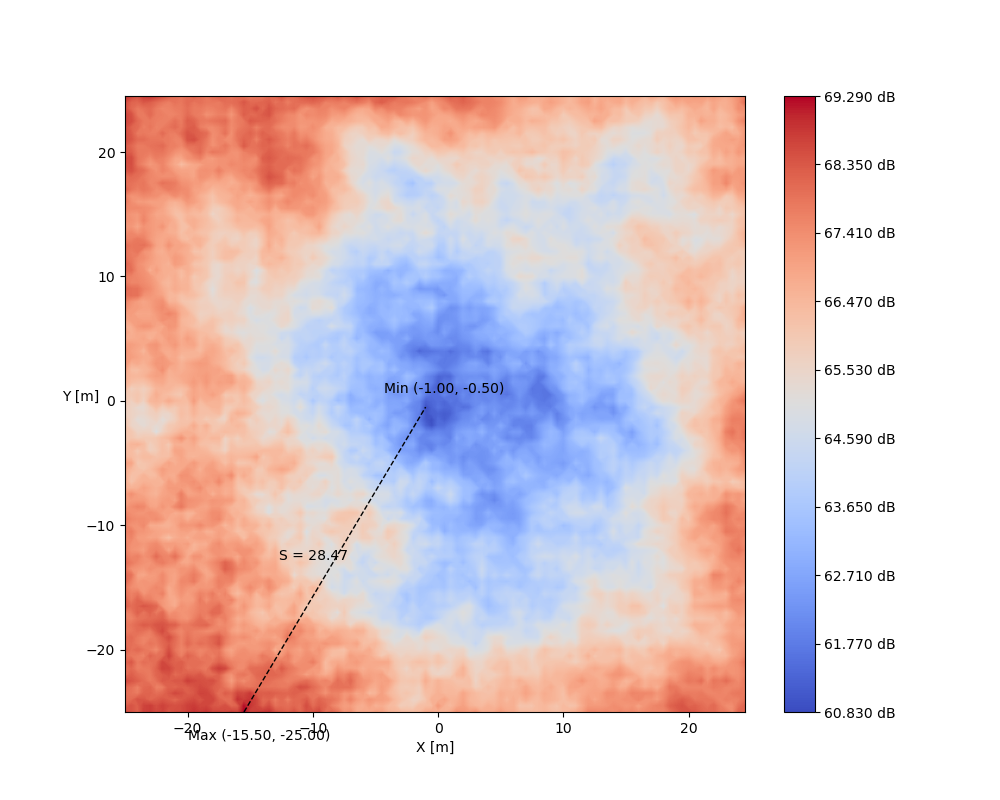
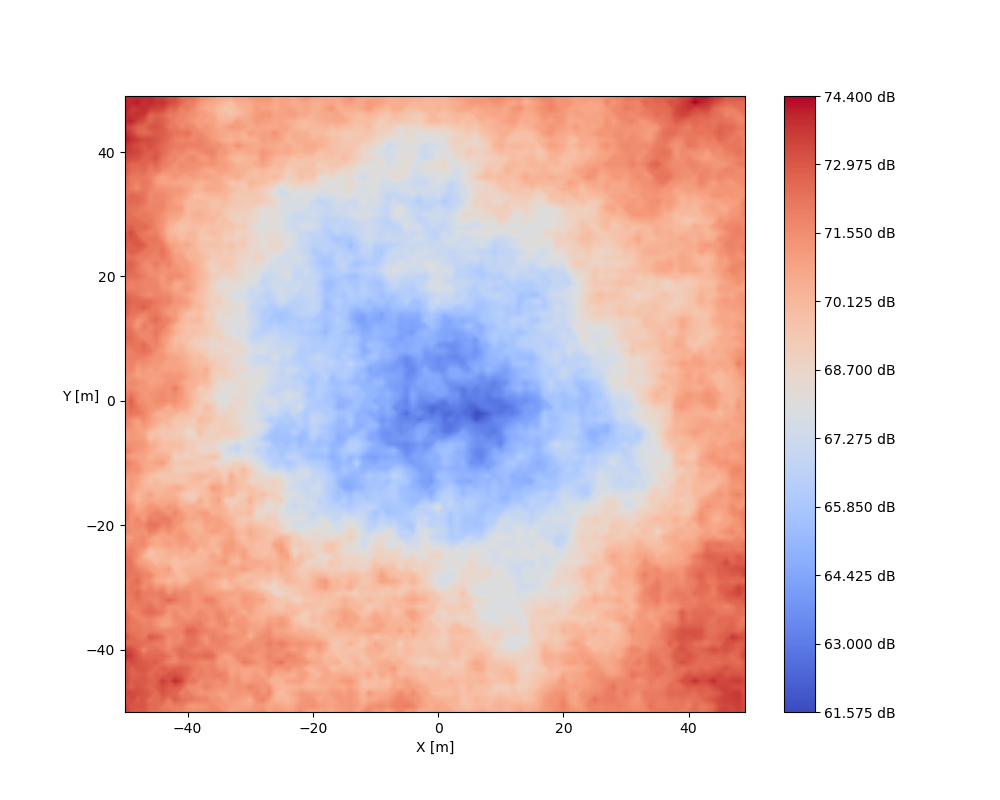
edit

diff --git a/scripts/channel-model.py b/scripts/channel-model.py
@@ -21,7 +21,7 @@ wavelength = constants.speed_of_light/f
 COHD=10 # coherence distance shadowing
 SIGXI=2.5 # deviazione standard dello shadowing
 PTAX=100# Nel libro è N1, oppure N2; qui si considera uno spazio "quadrato". E' il numero di punti per ogni asse della griglia
-STEP=0.5 # passo della griglia (distanza tra i punti, in metri)
+STEP=1 # passo della griglia (distanza tra i punti, in metri)
 
 ########################################################################################
 '''
@@ -173,6 +173,9 @@ max_y = x2[max_i, max_j]
 min_x = x1[min_i, min_j]
 min_y = x2[min_i, min_j]
 
+dist = np.sqrt((max_x - min_x) ** 2 + (max_y - min_y) ** 2) # distanza tra max e min
+
+
 
 
 fig_map = plt.figure(figsize=(10,8))
@@ -183,20 +186,22 @@ ax_map.set_ylabel("Y [m]", rotation=0)
 cntf_map = ax_map.contourf(x1, x2, ch, levels=1000, cmap=cm.coolwarm)
 cbar_map = fig_map.colorbar(cntf_map)
 
-# Traccia una linea che congiunge i punti max e min
-ax_map.plot([max_x, min_x], [max_y, min_y], color='black', linestyle='dashed', linewidth=1)
-
-# Annota i punti ax e min con le loro coordinate
-ax_map.annotate(f'Max ({max_x:.2f}, {max_y:.2f})', xy=(max_x, max_y), xytext=(-40, -20),
-             textcoords='offset points', arrowprops=None, color = 'black')
-
-ax_map.annotate(f'Min ({min_x:.2f}, {min_y:.2f})', xy=(min_x, min_y), xytext=(-30, 10),
-             textcoords='offset points', arrowprops=None, color = 'black')
-
-# Calcola e annota la lunghezza della linea
-dist = np.sqrt((max_x - min_x) ** 2 + (max_y - min_y) ** 2)
-ax_map.annotate(f'S = {dist:.2f}', xy=((max_x + min_x) / 2, (max_y + min_y) / 2), xytext=(-40, 0),
-             textcoords='offset points', arrowprops= None, color = 'black')
+## Traccia una linea che congiunge i punti max e min
+#ax_map.plot([max_x, min_x], [max_y, min_y], color='black', linestyle='dashed', linewidth=1)
+#
+## Annota i punti ax e min con le loro coordinate
+#ax_map.annotate(f'Max ({max_x:.2f}, {max_y:.2f})', xy=(max_x, max_y), xytext=(-40, -20),
+#             textcoords='offset points', arrowprops=None, color = 'black')
+#
+#ax_map.annotate(f'Min ({min_x:.2f}, {min_y:.2f})', xy=(min_x, min_y), xytext=(-30, 10),
+#             textcoords='offset points', arrowprops=None, color = 'black')
+#
+#ax_map.scatter([min_x], [min_y], c='black', marker='o', s=20)  # evidenzia i punti di massimo e minimo
+#ax_map.scatter([max_x], [max_y], c='black', marker='o', s=20)
+#
+## annota la lunghezza della linea
+#ax_map.annotate(f'S = {dist:.2f}', xy=((max_x + min_x) / 2, (max_y + min_y) / 2), xytext=(-40, 0),
+#             textcoords='offset points', arrowprops= None, color = 'black')
 
 
 
